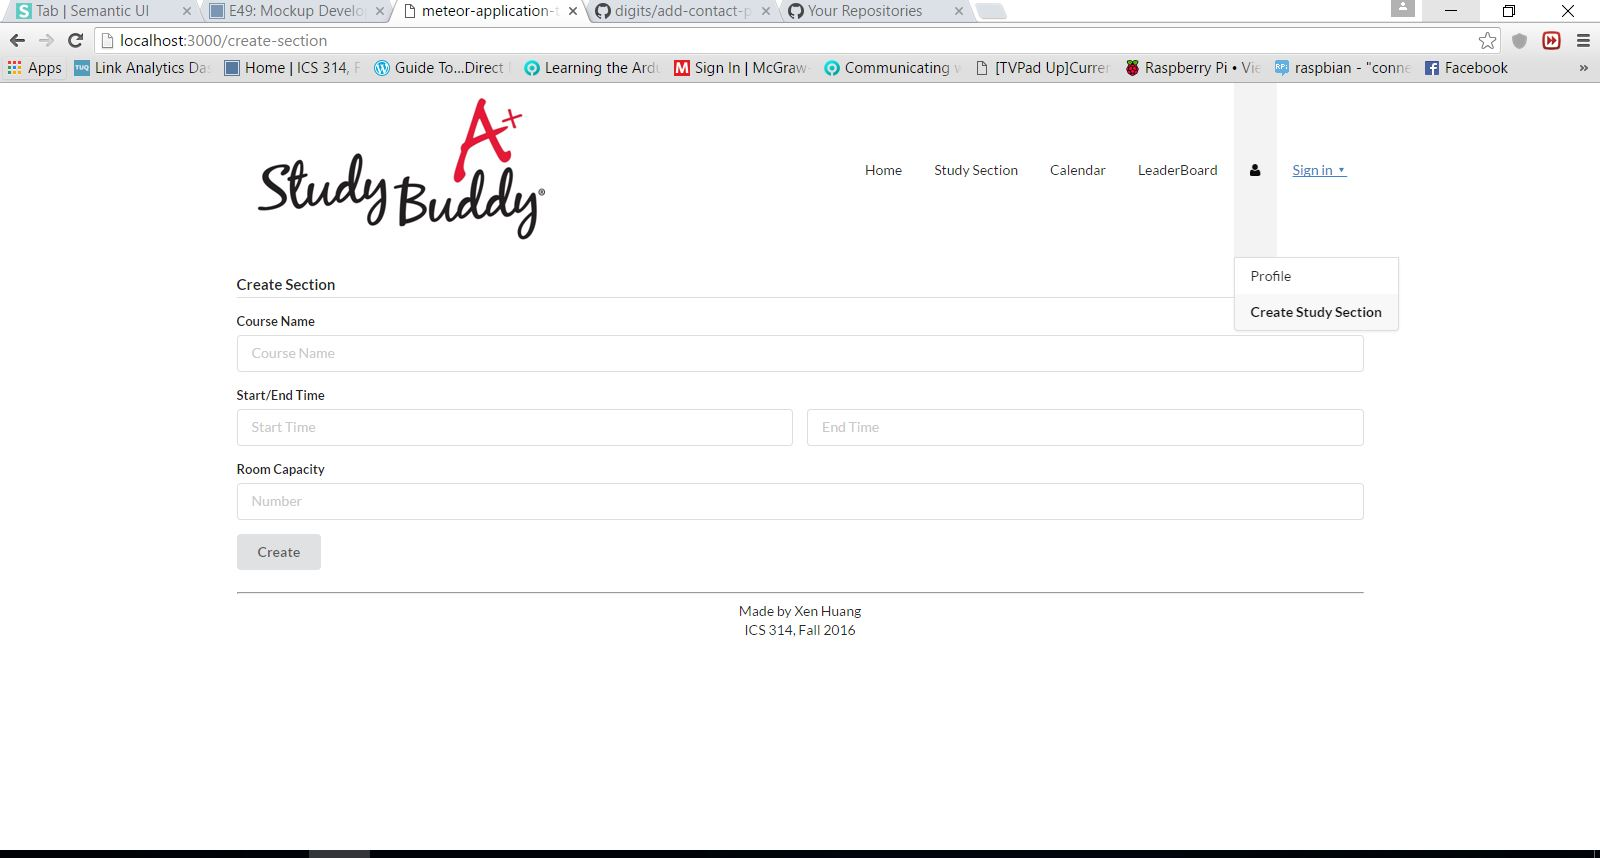
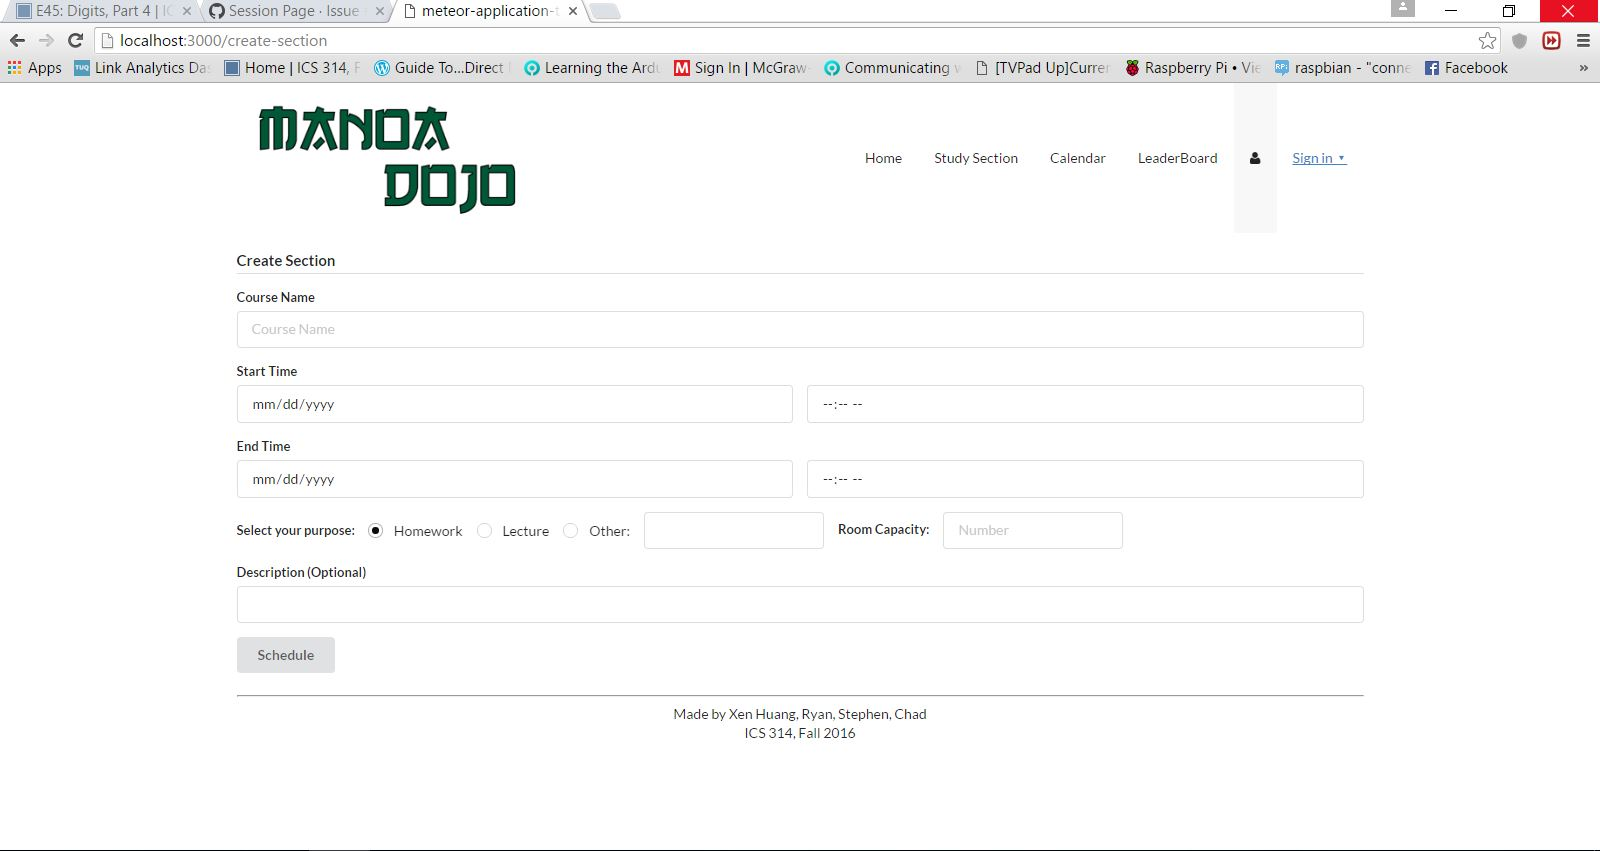
section backend done, updated few screenshots

diff --git a/app/imports/ui/pages/create-section.html b/app/imports/ui/pages/create-section.html
@@ -6,45 +6,84 @@
         <label>Course Name</label>
         <div class="field">
             <input type="text" name="course" id="course" placeholder="Course Name">
-          {{#if displayFieldError 'course' }}
-            <div class="ui error message">
-              <p>You must specify the course name.</p>
-            </div>
-          {{/if}}
+            {{#if displayFieldError 'course' }}
+              <div class="ui error message">
+                <p>You must specify the course name.</p>
+              </div>
+            {{/if}}
         </div>
       </div>
       <div class="field">
-        <label>Start/End Time</label>
+        <label>Start Time</label>
         <div class="two fields">
           <div class="field">
-            <input type="text" name="start" id="start" placeholder="Start Time">
-            {{#if displayFieldError 'start' }}
-              <div class="ui error message">
-                <p>You must specify the Start Time.</p>
-              </div>
-            {{/if}}
+            <input type="Date" name="startDate" id="startDate">
           </div>
           <div class="field">
-            <input type="text" name="end" id="end" placeholder="End Time">
-            {{#if displayFieldError 'end' }}
-              <div class="ui error message">
-                <p>You must specify the End Time.</p>
-              </div>
-            {{/if}}
+            <input type="Time" name="startTime" id="startTime">
           </div>
         </div>
+        {{#if displayFieldError 'startTime' }}
+          <div class="ui error message">
+            <p>You must specify the start time.</p>
+          </div>
+        {{/if}}
       </div>
-
       <div class="field">
-        <label>Room Capacity</label>
+        <label>End Time</label>
+        <div class="two fields">
+          <div class="field">
+            <input type="Date" name="endDate" id="endDate">
+          </div>
+          <div class="field">
+            <input type="Time" name="endTime" id="endTime">
+          </div>
+        </div>
+
+        {{#if displayFieldError 'endTime' }}
+          <div class="ui error message">
+            <p>You must specify the end time.</p>
+          </div>
+        {{/if}}
+      </div>
+      <div class="inline fields">
+        <label for="fruit">Select your purpose:</label>
         <div class="field">
-          <input type="text" name="people" id="people" placeholder="Number">
-          {{#if displayFieldError 'people' }}
+          <div class="ui radio checkbox">
+            <input type="radio" name="purpose" id="homework" value="Homework" checked="" tabindex="0" class="hidden">
+            <label>Homework</label>
+          </div>
+        </div>
+        <div class="field">
+          <div class="ui radio checkbox">
+            <input type="radio" name="purpose" id="lecture" value="Lecture" tabindex="0" class="hidden">
+            <label>Lecture</label>
+          </div>
+        </div>
+        <div class="field">
+          <div class="ui radio checkbox">
+            <input type="radio" name="purpose" id="other" value="Other" tabindex="0" class="hidden">
+            <label>Other:</label>
+          </div>
+        </div>
+        <div class="field">
+            <input type="text" name="otherInput" id="otherInput">
+
+        </div>
+        <div class="field">
+          <label>Room Capacity:</label>
+            <input type="text" name="people" id="people" placeholder="Number">
+          {{#if displayFieldError 'maxCapacity' }}
             <div class="ui error message">
               <p>You must specify the room capacity.</p>
             </div>
           {{/if}}
         </div>
+      </div>
+      <div class="field">
+        <label>Description (Optional)</label>
+        <input type="text" name="description" id="description">
+
       </div>
 
 

diff --git a/app/imports/ui/pages/create-section.js b/app/imports/ui/pages/create-section.js
@@ -1,0 +1,79 @@
+/**
+ * Created by X on 2016/11/2.
+ */
+import { Template } from 'meteor/templating';
+import { ReactiveDict } from 'meteor/reactive-dict';
+import { FlowRouter } from 'meteor/kadira:flow-router';
+import { _ } from 'meteor/underscore';
+import { Sections, SectionsSchema } from '../../api/sections/sections.js';
+
+/* eslint-disable no-param-reassign */
+
+const displayErrorMessages = 'displayErrorMessages';
+
+
+
+Template.Create_Section_Page.onCreated(function onCreated() {
+  this.messageFlags = new ReactiveDict();
+  this.messageFlags.set(displayErrorMessages, false);
+  this.context = SectionsSchema.namedContext('Create_Section_Page');
+});
+
+Template.Create_Section_Page.helpers({
+  errorClass() {
+    return Template.instance().messageFlags.get(displayErrorMessages) ? 'error' : '';
+  },
+  displayFieldError(fieldName) {
+    const errorKeys = Template.instance().context.invalidKeys();
+    return _.find(errorKeys, (keyObj) => keyObj.name === fieldName);
+  },
+});
+
+Template.Create_Section_Page.onRendered(function enableRadioCheckBox() {
+  this.$('.ui.radio.checkbox').checkbox();
+});
+// Template.Add_Contact_Page.onRendered(function enableSemantic() {
+//   const instance = this;
+//   instance.$('select.ui.dropdown').dropdown();
+//   instance.$('.ui.selection.dropdown').dropdown();
+//   instance.$('select.dropdown').dropdown();
+//   instance.$('.ui.checkbox').checkbox();
+//   instance.$('.ui.radio.checkbox').checkbox();
+// });
+
+Template.Create_Section_Page.events({
+  'submit .section-data-form'(event, instance) {
+    event.preventDefault();
+    // Get name (text field)
+    const course = event.target.course.value;
+    console.log(course);
+    const startTime = event.target.startDate.value + ' ' + event.target.startTime.value ;
+    console.log(startTime);
+    const endTime= event.target.endDate.value + ' ' + event.target.endTime.value ;
+    const currentCapacity = 1;
+    const maxCapacity = event.target.people.value;
+    let p = instance.$('input[name="purpose"]:checked').val();
+    let purpose = '';
+    if (p === 'Other'){
+      purpose = event.target.otherInput.value;
+    }else{
+       purpose = p;
+    }
+    console.log(purpose);
+    const description = event.target.description.value;
+    const newSection = { course, startTime, endTime, currentCapacity, maxCapacity, purpose, description };
+    // Clear out any old validation errors.
+    instance.context.resetValidation();
+    // Invoke clean so that newStudentData reflects what will be inserted.
+    SectionsSchema.clean(newSection);
+    // Determine validity.
+    instance.context.validate(newSection);
+    if (instance.context.isValid()) {
+      Sections.insert(newSection);
+      instance.messageFlags.set(displayErrorMessages, false);
+      FlowRouter.go('Study_Section_Page');
+    } else {
+      instance.messageFlags.set(displayErrorMessages, true);
+    }
+  },
+});

diff --git a/app/imports/startup/server/sections.js b/app/imports/startup/server/sections.js
@@ -11,7 +11,7 @@ import {_} from 'meteor/underscore';
 let d = new Date();
 
 const sectionSeeds = [
-  { course: 'ICS314', startTime: d.toLocaleString(), endTime: new Date(d.getTime() + 75*60000), currentCapacity: 0, maxCapacity: '45', description: 'No description Yet', purpose: 'Project' },
+  { course: 'ICS314', startTime: d.toLocaleString(), endTime: new Date(d.getTime() + 75*60000).toLocaleString(), currentCapacity: 0, maxCapacity: '45', purpose: 'Project', description: 'No description Yet' },
 ];
 
 /**

diff --git a/app/imports/ui/layouts/header.html b/app/imports/ui/layouts/header.html
@@ -1,6 +1,6 @@
 <template name="Header">
   <div class="ui borderless topmenu container menu">
-      <img style="max-height: 150px; max-width: 300px" class="ui image item" src="/images/manoa-dojo-logo"/>
+      <img style="max-height: 150px; max-width: 300px" class="ui image item" src="/images/Manoa-Dojo-logo.png">
     <div class="ui container">
 
       <a class="right item" style="box-shadow: 30px;" href="{{pathFor 'Home_Page'}}">Home</a>

diff --git a/app/imports/api/sections/sections.js b/app/imports/api/sections/sections.js
@@ -42,14 +42,14 @@ export const SectionsSchema = new SimpleSchema({
     optional: false,
     max: 200,
   },
-  description: {
-    label: 'Description',
+  purpose: {
+    label: 'Purpose',
     type: String,
     optional: false,
     max: 200,
   },
-  purpose: {
-    label: 'Purpose',
+  description: {
+    label: 'Description',
     type: String,
     optional: false,
     max: 200,

diff --git a/app/imports/ui/layouts/footer.html b/app/imports/ui/layouts/footer.html
@@ -2,7 +2,7 @@
   <footer>
     <div style="padding-top: 15px" class="ui center aligned container">
       <hr>
-      Made by Xen Huang<br />
+      Made by Xen Huang, Ryan, Stephen, Chad<br />
       ICS 314, Fall 2016<br />
     </div>
   </footer>

diff --git a/app/imports/ui/pages/index.js b/app/imports/ui/pages/index.js
@@ -4,6 +4,8 @@ import './study-section.html';
 import './study-section.js';
 
 import './create-section.html';
+import './create-section.js';
+
 import './calendar.html';
 import './leaderboard.html';
 import './profile.html';

diff --git a/app/imports/ui/stylesheets/style.css b/app/imports/ui/stylesheets/style.css
@@ -14,8 +14,6 @@ body {
 }
 
 p{
-  font-size: xx-large;
-  font-weight: bolder;
 }
 
 /* Month header */
